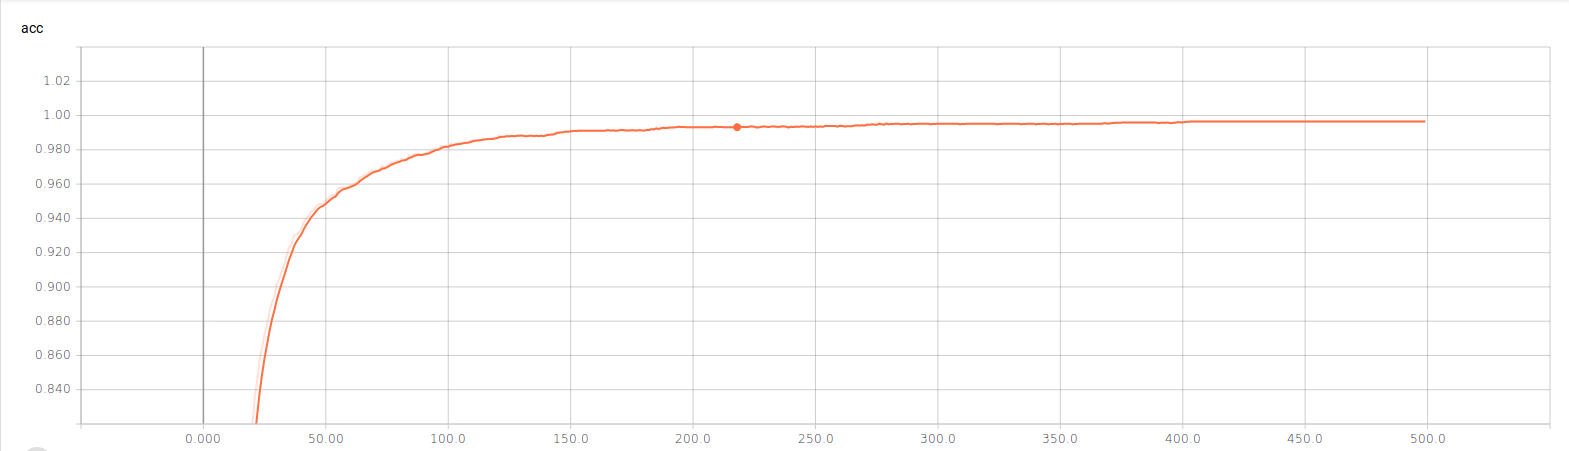
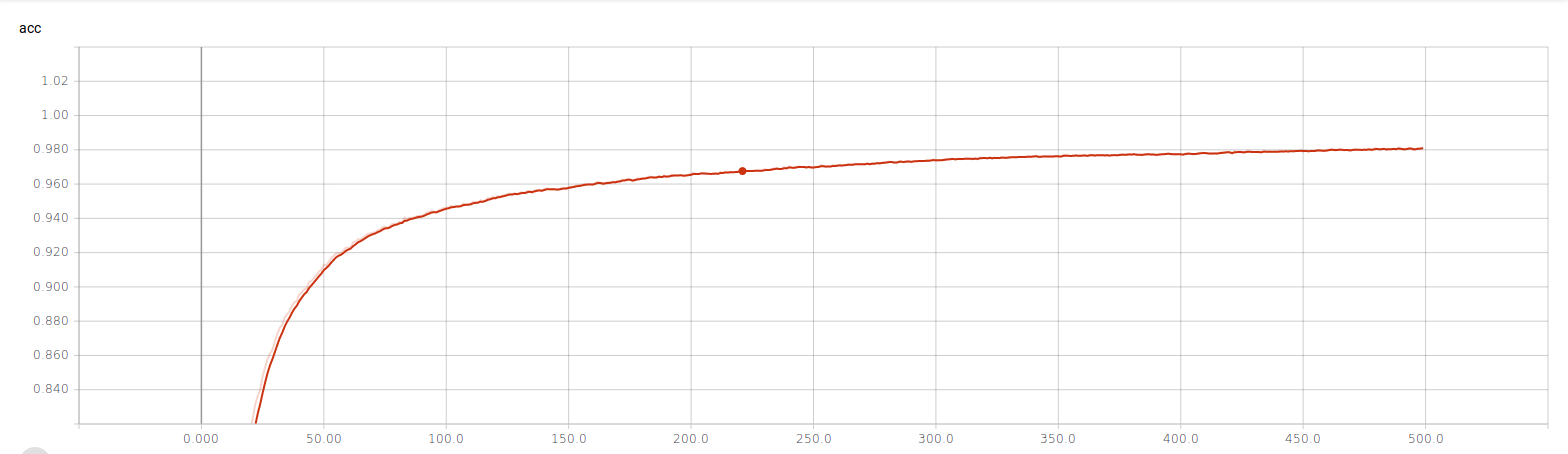
Updated plots and README with data from train set.

diff --git a/README.md b/README.md
@@ -39,7 +39,7 @@ python fulltextmodel.py
 
 ### Model ###
 
-As mentioned above, the model is a simple dense layer with a `tanh` activation above it.
+As mentioned above, the model is a simple dense layer with a `linear` activation above it.
 
 ``` text
 _________________________________________________________________
@@ -73,11 +73,11 @@ _________________________________________________________________
 The first evaluation attemp failed due to an error:
 
 ``` python
-ValueError: Error when checking input: expected dense_1_input to have shape (12950,) but got array with shape (7572,)
+ValueError: Error when checking input: expected dense_1_input to have shape (24212,) but got array with shape (7572,)
 ```
 
 This signals the main **issues** of this approach:
 - **The model is too rigid and cannot accomodate new words**
-- **Faulty encoding** - the _encoding is tightly coupled with text corpus_; in the training phase, since training corpus is larger than test corpus, using `TF-IDF` as the encoding mechanism for texts resulted in each text being represented in a `6475` dimensional vector (`12950/2`) while encoding the test set resulted in a `3786` dimensional vector which cannot be accepted by the model because the model is expecting to work with vectors of the same dimensionality as those it was trained on.
+- **Faulty encoding** - the _encoding is tightly coupled with text corpus_; in the training phase, since training corpus is larger than test corpus, using `TF-IDF` as the encoding mechanism for texts resulted in each text being represented in a `12106` dimensional vector (`24212/2`) while encoding the test set resulted in a `3786` dimensional vector which cannot be accepted by the model because the model is expecting to work with vectors of the same dimensionality as those it was trained on.
 
 ## TF-IDF encoding based on both train and test data sets ##
